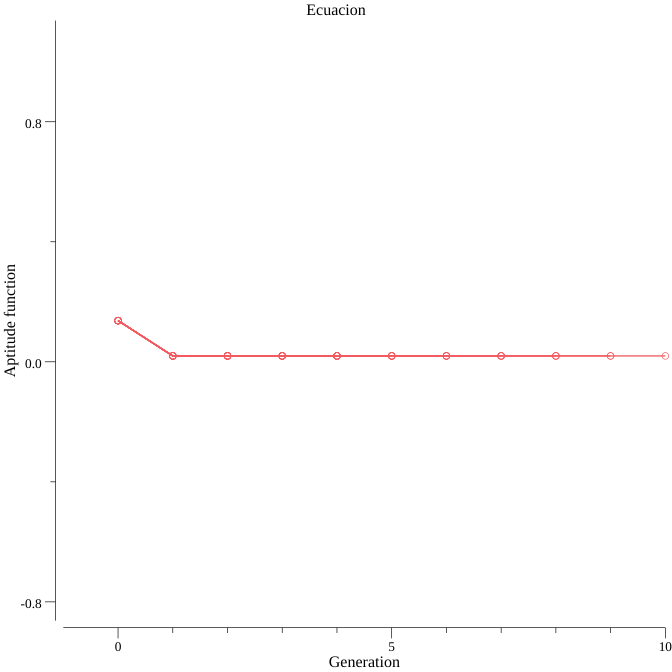
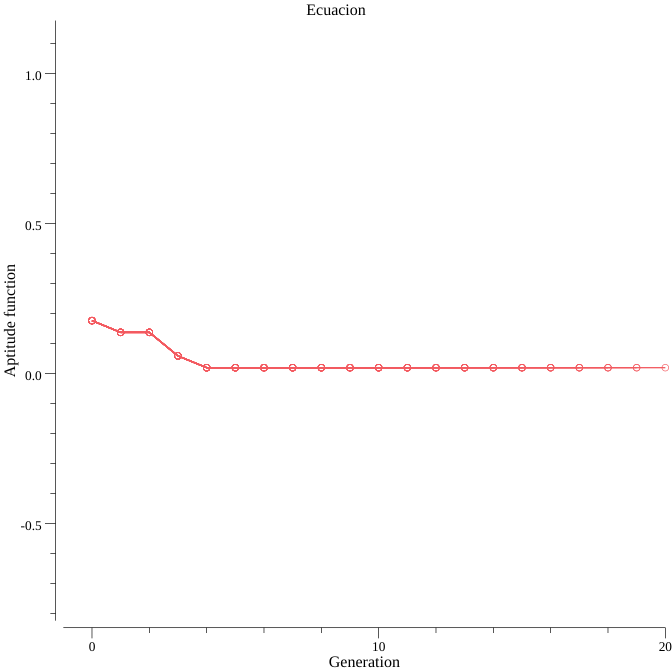
Fix compete percentaje

diff --git a/genetico/genetico.go b/genetico/genetico.go
@@ -1,7 +1,6 @@
 package genetico
 
 import (
-	"fmt"
 	"math"
 	"math/rand"
 	"sync"
@@ -9,18 +8,15 @@ import (
 )
 
 type Generation struct {
-	Population [][]uint8
-	Aptitud    []float64
-}
-
-type aptFunction func(c []uint8) float64
-
-var (
+	Population        [][]uint8
+	Aptitud           []float64
 	aptFunc           aptFunction
 	maxNumberAlelo    int
 	competePercentaje float32
 	sizeChromosome    int
-)
+}
+
+type aptFunction func(c []uint8) float64
 
 func NewGenetic(
 	population,
@@ -30,13 +26,13 @@ func NewGenetic(
 	af aptFunction,
 ) *Generation {
 	ng := &Generation{
-		Population: make([][]uint8, population),
-		Aptitud:    make([]float64, population),
+		Population:        make([][]uint8, population),
+		Aptitud:           make([]float64, population),
+		aptFunc:           af,
+		maxNumberAlelo:    maxNumberAlelo,
+		competePercentaje: competePercentaje,
+		sizeChromosome:    sizeChromosome,
 	}
-	aptFunc = af
-	maxNumberAlelo = maxNumberAlelo
-	competePercentaje = competePercentaje
-	sizeChromosome = sizeChromosome
 
 	ng.generateRandom()
 	ng.calculateAptitud()
@@ -47,8 +43,12 @@ func NewGenetic(
 func (g *Generation) NextGeneration() *Generation {
 	population := len(g.Population)
 	ng := &Generation{
-		Population: make([][]uint8, population),
-		Aptitud:    make([]float64, population),
+		Population:        make([][]uint8, population),
+		Aptitud:           make([]float64, population),
+		aptFunc:           g.aptFunc,
+		maxNumberAlelo:    g.maxNumberAlelo,
+		competePercentaje: g.competePercentaje,
+		sizeChromosome:    g.sizeChromosome,
 	}
 
 	g.competeParents(ng)
@@ -72,13 +72,13 @@ func (g *Generation) generateRandom() {
 func (g *Generation) randomChromosome(chromosome int, wg *sync.WaitGroup) {
 	c := make(map[int]bool)
 	var random int
-	g.Population[chromosome] = make([]uint8, sizeChromosome)
-	for i := 0; i < sizeChromosome; i++ {
+	g.Population[chromosome] = make([]uint8, g.sizeChromosome)
+	for i := 0; i < g.sizeChromosome; i++ {
 		rand.Seed(time.Now().UnixNano())
-		random = rand.Intn(maxNumberAlelo) + 1
+		random = rand.Intn(g.maxNumberAlelo) + 1
 		for c[random] {
 			rand.Seed(time.Now().UnixNano())
-			random = rand.Intn(maxNumberAlelo) + 1
+			random = rand.Intn(g.maxNumberAlelo) + 1
 		}
 		c[random] = true
 		g.Population[chromosome][i] = uint8(random)
@@ -104,7 +104,7 @@ func (g *Generation) reproduceSingleChromosome(
 	wg *sync.WaitGroup,
 ) {
 	population := len(g.Population)
-	p := float32(population) * competePercentaje
+	p := float32(population) * g.competePercentaje
 	bestApt := math.MaxFloat64
 	var randomIndex, minIndex int
 	for i := 0; i < int(p); i++ {
@@ -140,7 +140,7 @@ func (g *Generation) reproduceChildsChromosome(
 	wg *sync.WaitGroup,
 ) {
 	population := len(g.Population)
-	p := float32(population) * competePercentaje
+	p := float32(population) * g.competePercentaje
 	bestApt1 := math.MaxFloat64
 	bestApt2 := math.MaxFloat64
 	var randomIndex, min1, min2 int
@@ -157,13 +157,15 @@ func (g *Generation) reproduceChildsChromosome(
 		rand.Seed(time.Now().UnixNano())
 		randomIndex = rand.Intn(population)
 		if g.Aptitud[randomIndex] < bestApt2 {
+			if min1 == randomIndex {
+				i--
+				continue
+			}
 			bestApt2 = g.Aptitud[randomIndex]
 			min2 = randomIndex
 		}
 	}
-	fmt.Println("============", min1 == min2)
 	r1, r2 := Cruza(g.Population[min1], g.Population[min2])
-	fmt.Println("=============", r1, r2)
 	newGeneration.Population[position] = r1
 	newGeneration.Population[position+1] = r2
 	wg.Done()
@@ -189,6 +191,6 @@ func (g *Generation) generateOperations() {
 
 func (g *Generation) calculateAptitud() {
 	for i := range g.Population {
-		g.Aptitud[i] = aptFunc(g.Population[i])
+		g.Aptitud[i] = g.aptFunc(g.Population[i])
 	}
 }

diff --git a/main.go b/main.go
@@ -22,6 +22,7 @@ type application struct {
 	generation     *genetico.Generation
 	labelBest      *widget.Label
 	bestSolution   float64
+	bestOfAll      float64
 	plot           *plot.Plot
 	xy             plotter.XYs
 	bestChromosome []uint8
@@ -37,6 +38,7 @@ func main() {
 		generation:   &genetico.Generation{},
 		labelBest:    widget.NewLabel(fmt.Sprintf("%.3f", 0.0)),
 		bestSolution: math.MaxFloat64,
+		bestOfAll:    math.MaxFloat64,
 	}
 	g.window.SetContent(
 		widget.NewVBox(
@@ -67,12 +69,11 @@ func (a *application) startApp() {
 	a.solution.File = "image/graph.png"
 
 	a.xy = plotter.XYs{}
-	a.generation = genetico.NewGenetic(30, 3, 255, 0.5, aptFunc)
+	a.generation = genetico.NewGenetic(100, 3, 255, 0.05, aptFunc)
 	fmt.Println(a.generation.Population)
 	time.Sleep(1 * time.Second)
 	a.createGraph(0)
-	fmt.Println(a.generation.Population)
-	for i := 0; i < 5; i++ {
+	for i := 0; i < 20; i++ {
 		a.generation = a.generation.NextGeneration()
 		fmt.Println(a.generation.Population)
 		time.Sleep(1 * time.Second)
@@ -97,7 +98,7 @@ func (a *application) createGraph(i int) {
 	}
 
 	canvas.Refresh(a.solution)
-	a.labelBest.SetText(fmt.Sprintf("%.3f", a.bestSolution))
+	a.labelBest.SetText(fmt.Sprintf("%.3f", a.bestOfAll))
 }
 
 func (a *application) getBestChromosome() {
@@ -109,9 +110,10 @@ func (a *application) getBestChromosome() {
 			minSolution = v
 		}
 	}
-	if a.bestSolution > minSolution {
+	a.bestSolution = minSolution
+	if a.bestOfAll > minSolution {
 		a.bestChromosome = a.generation.Population[index]
-		a.bestSolution = minSolution
+		a.bestOfAll = minSolution
 	}
 
 	fmt.Println("BEST >>>>>>>>>>>>", a.generation.Population[index], "distance: "+fmt.Sprintf("%.3f", minSolution))
